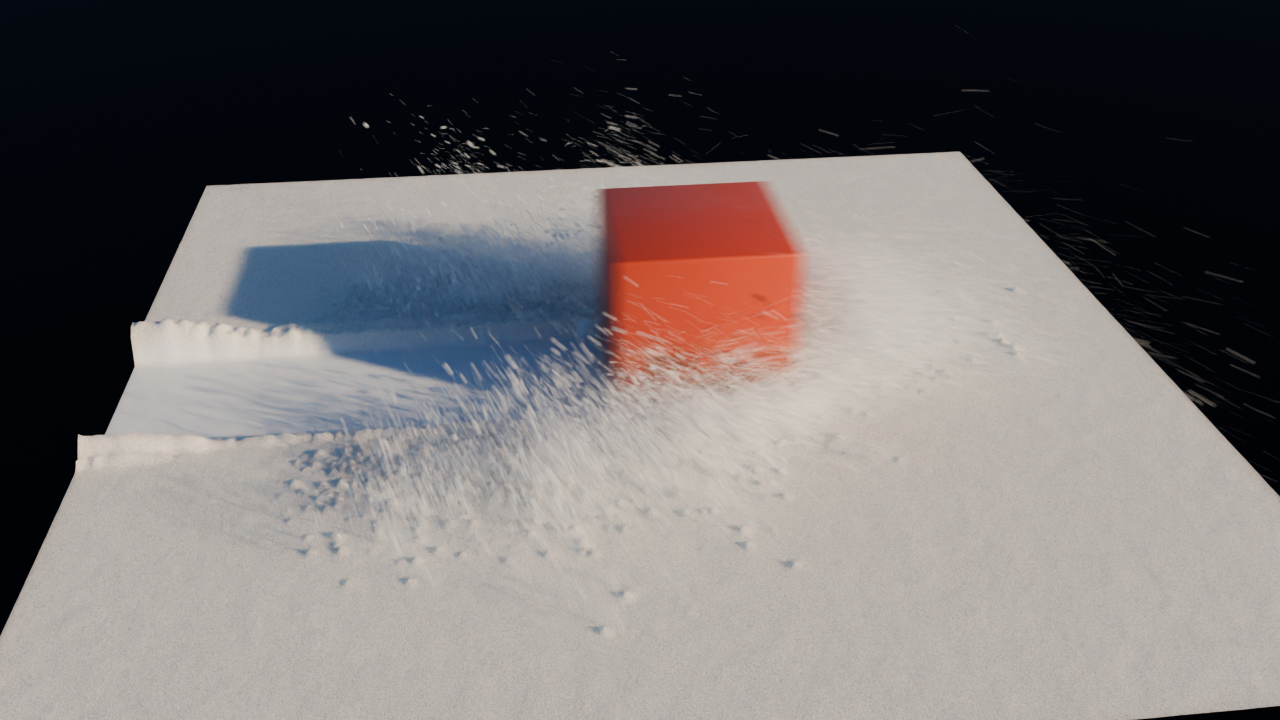
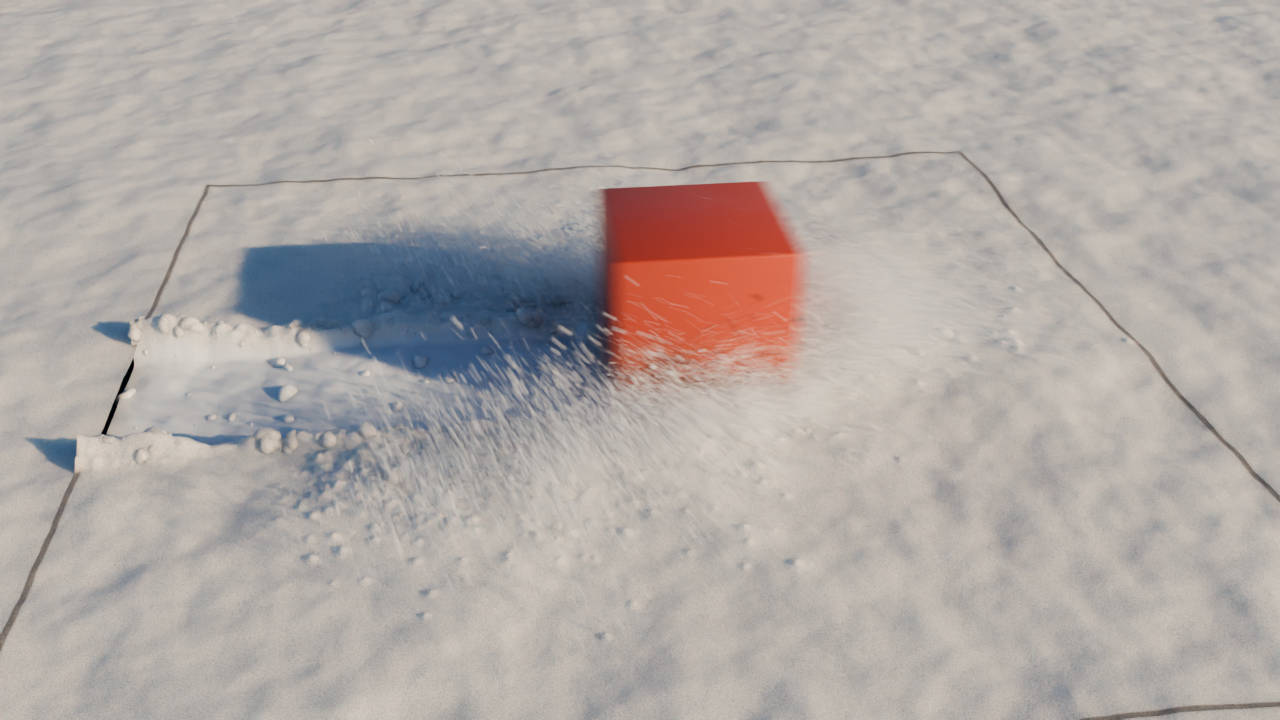
docs: Staub, Schnee-Surface, Zielversion 5.3, Belegrenders
refs #12, refs #4

diff --git a/CONTEXT.md b/CONTEXT.md
@@ -145,6 +145,35 @@ Fallstricke:
 - `evaluated_geometry()` in Python: das GeometrySet in einer Variable
   halten, sonst ist `pointcloud` sofort ungültig.
 
+## Staub und Schnee-Surface (2026-11-13, Zielversion jetzt Blender 5.3)
+
+Zielversion ist seit 2026-11-13 Blender 5.3 (Vorgabe ed3n), 5.2 wird nicht
+mehr geprüft. Manifest, `compat.BLENDER_MIN` und `dev/run_tests.ps1` stehen
+auf 5.3. Die Weiche `ng_dust.supported()` ist damit immer wahr und kann raus.
+
+**Staub** (`ng_dust.py`, in der Spray-Stufe, nur Anzeige): eigene kleine
+Simulationszone. Jedes Partikel hinterlässt einen Puff beim Start und einen
+bei der Landung. Puffs verlieren ihre Geschwindigkeit in Sekundenbruchteilen,
+treiben in einem Rauschfeld, sinken leicht und leben 1,2 bis 3,4 s. Gezeichnet
+als je 6 gestreute Punkte, per **Rasterize Points** (Voxel 12 mm) zu einem
+Grid `density` summiert, Material Principled Volume. Regler `Dust`, Sand und
+Schnee 1,0, Schlamm 0.
+
+- Rasterize Points: Werte sind Items, `rasterize_items.new(name=...)` nimmt
+  nur den Namen, der Socket heißt danach wie das Item.
+- Store Named Grid erzeugt das Volume selbst, der Volume-Eingang darf leer
+  bleiben.
+- Stärke (`_GAIN`) ist nach einem einzigen Render geschätzt, nicht kalibriert.
+
+**Schnee-Surface** (`GFX_Surface_Snow`): Verwehungen (`Undulation`), schwache
+lange Rippel, im aufgewühlten Bereich gerundete Brocken als Relief und als
+Krümel, Umgebung mit flachen Wellen, keine Steinchen. Der Schnee-Shader liest
+`gfx_dist`/`gfx_damp` noch nicht.
+
+Offener Fehler: Um das Simulationsfeld läuft im Schnee eine dunkle Nahtlinie
+zum Ring (`docs/g4_snow_fast_f014.png`). Bei Sand ist sie nicht sichtbar.
+Vermutung, ungeprüft: Subsurface an der 0,4 mm überlappenden Ringreihe.
+
 ## Schlamm Gen 3
 
 Profil der Surface-Stufe für Schlamm:
@@ -285,7 +314,7 @@ stand als Wand über dem Objekt.
 - Schnee-Mikro: Körner lesen sich, wirken aber leicht kunststoffartig.
   Echte Facettengeometrie (Kornebene für Schnee) wäre der nächste Schritt.
 - Kornebene gibt es bisher nur für Sand.
-- Surface-Stufe (Gen 3) gibt es für Sand und Schlamm, nicht für Schnee.
+- Surface-Stufe gibt es für alle drei Elemente, die für Schnee ist ein erster Stand.
 - Schlamm-Wasser ist ein fester Pegel ohne Verdrängung oder Spritzer.
 - Haufen haben flache Plateaus statt eines Grats. Tiefes, langes Pflügen
   türmt sie über die Box, dann liegt Sand auf deren Oberseite (Volumen

diff --git a/docs/STATUS.md b/docs/STATUS.md
@@ -16,7 +16,8 @@ dieser Datei, nicht mehr hier.
 | **Gen 4 Schlamm und Schnee** | Flugphase mit eigenem Profil: Schlamm als wenige schwere Klumpen, Schnee als Pulver, das die Luft schnell bremst. Erster Stand, nicht nach Referenz abgestimmt. Belege: `g4_mud_fast_f011.png`, `g4_snow_fast_f014.png` |
 | **Sand Gen 4** | neu: fliegendes Material. Schneller Kontakt wirft Sand als Partikel, die ballistisch fliegen und massengenau wieder landen; Anzeige-Stufe `GroundFX Spray` macht daraus Körner mit Motion Blur. Belege: `g4_sand_*.png` |
 | **Sand Gen 3** | fertig als erstes Element der neuen Generation: Surface-Stufe (Rippel, Relief, Krümel, Umgebung) plus Shader v3 |
-| Schnee | Look v2, keine Surface-Stufe |
+| Schnee | Look v2, Surface-Stufe (erster Stand, Nahtlinie am Feldrand offen), Flugphase und Staub |
+| **Staub** | Volumen aus Rasterize Points für Sand und Schnee, Stärke nicht kalibriert. Beleg: `g4_sand_dust_f014.png` |
 | **Schlamm Gen 3** | fertig: Surface-Stufe (unebene Fläche, Wülste, Spritzklumpen, stehendes Wasser) plus Shader v3 und Wasser-Shader |
 | **Haften am Objekt** | fertig für Sand und Schlamm: Coat-Objekt je Collider, Körner bzw. Spritzer als Geometrie an den Flanken |
 | Kornebene | nur Sand, im Kamera-Frustum |
